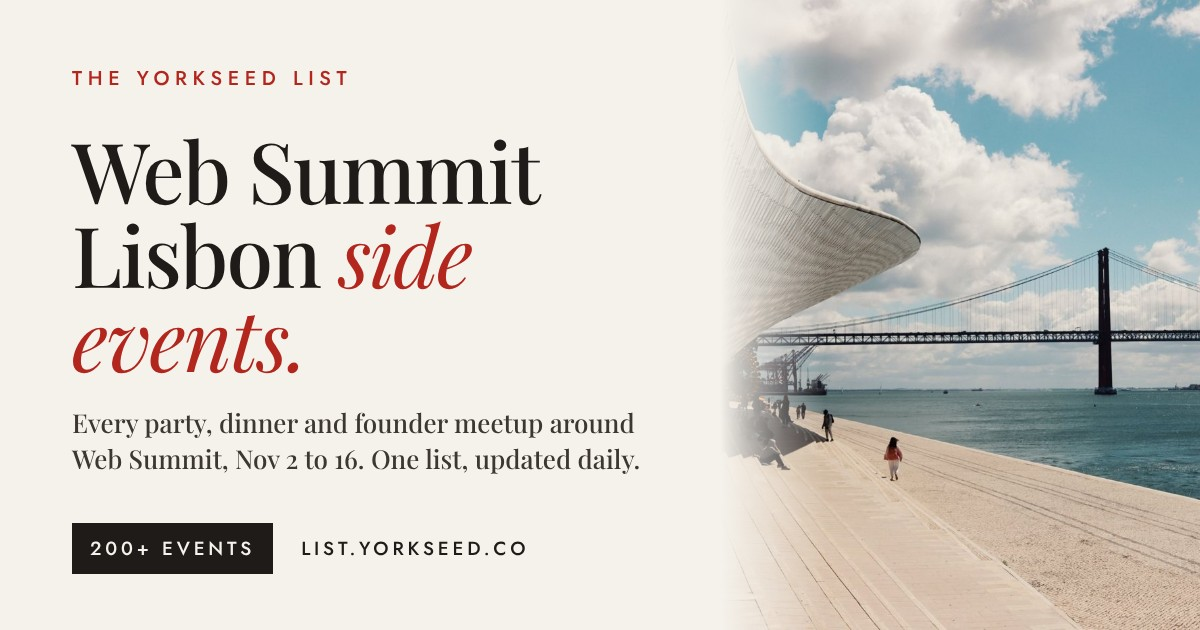
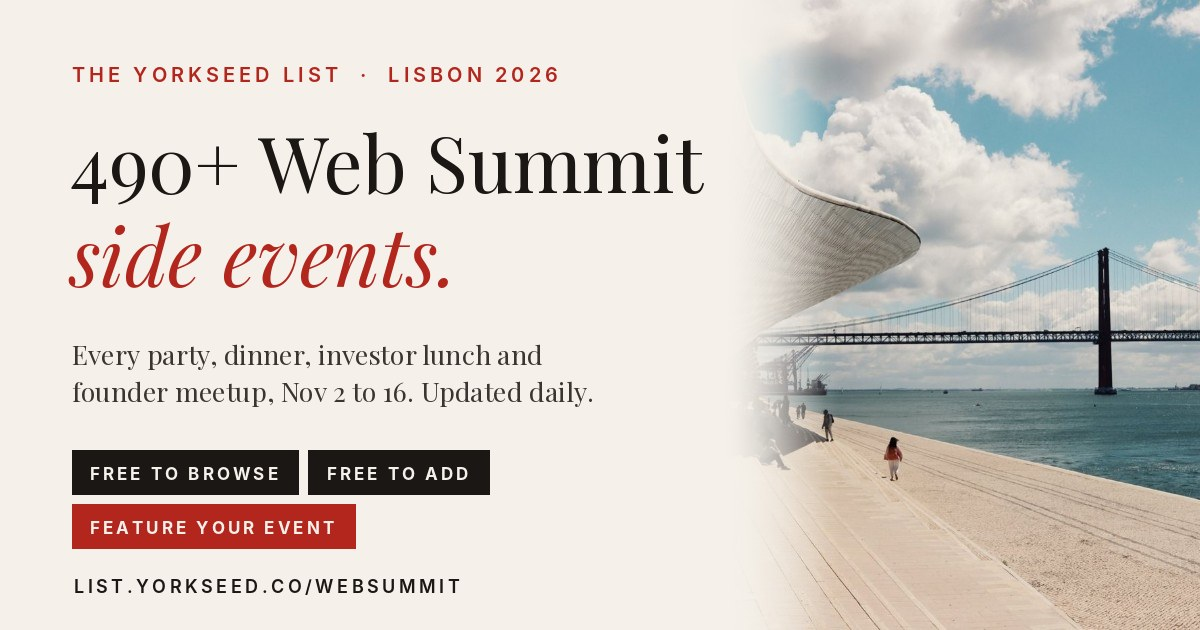
[deploy] List: Web Summit link preview shows 490+ events, free to browse/add, feature option
Claude-Session: https://claude.ai/code/session_01CjS7Kfsk9vaJ96TX3uaksN

diff --git a/scripts/build_list_pages.py b/scripts/build_list_pages.py
@@ -331,7 +331,7 @@ for w in weeks:
     rng = f"{s.strftime('%B')} {s.day} to {en.strftime('%B') + ' ' if en.month != s.month else ''}{en.day}, {en.year}"
     title = f"{w['name']} {s.year} Events & Side Events ({n}) | Yorkseed List"
     if len(title) > 66: title = f"{w['name']} {s.year} Events & Side Events | Yorkseed"
-    desc = (f"{w['name']} {s.year} events: all {n} side events in {h['name']}, {rng}. Parties, founder meetups, investor dinners, pitch events and breakfasts. Free to browse, updated daily, with links to register.")
+    desc = (f"{w['name']} {s.year} events: all {n} side events in {h['name']}, {rng}. Parties, founder meetups, investor dinners, pitch events and breakfasts. Updated daily. Free to browse, free to add your event, with the option to feature it.")
     canon = f"{LIST}{w['slug']}/"; img = WEEK_OG.get(w["id"]) or IMGPATH.get(h["img"] or h["id"])
     lead_q = [(f"What events are happening at {w['name']} {s.year}?", f"The Yorkseed List tracks {n} events around {w['name']} {s.year} in {h['name']}, {rng}: opening night parties, founder breakfasts and lunches, investor dinners, pitch events, workshops and conference side events. Browse them by day on this page, or filter by type and sector in the interactive List.")]
     qs = lead_q + ([(q, a.replace("{n}", str(n))) for q, a in X.get("faq", [])] or [
